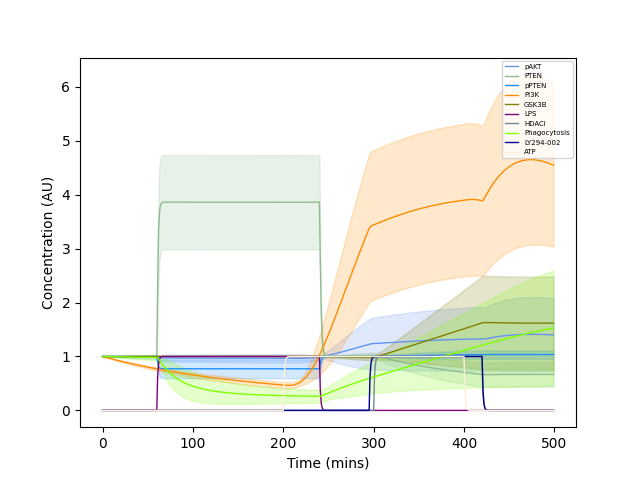
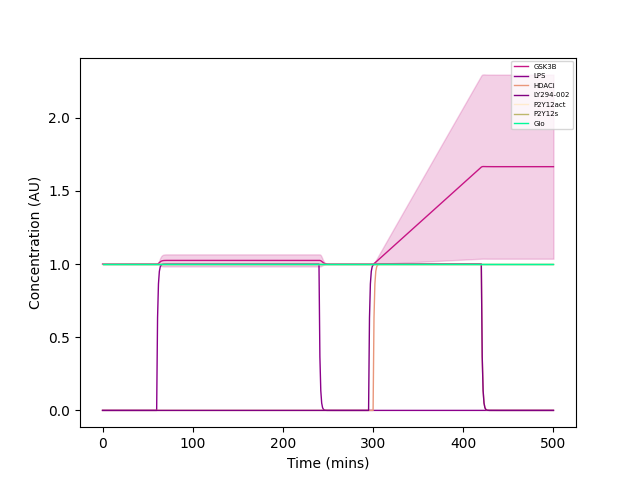
finalized ATP addition

diff --git a/src/network.py b/src/network.py
@@ -17,7 +17,7 @@ class Network:
         self.parsed_interactions = self.parse_interactions()
         self.rates = rates
 
-        np.random.seed(2024)
+        np.random.seed(2824)
         self.colors = list(mcolors.CSS4_COLORS.keys())
         np.random.shuffle(self.colors)
     
@@ -150,12 +150,22 @@ class Network:
                         else:
                             between = False
                             after = False
-                if between:
-                    dydt[substrate_id] = max_val - current_val
-                elif after:
-                    dydt[substrate_id] = -current_val
+                if substrate_of_interest.__getattribute__("r") != None and time_ranges != None:
+                    r = substrate_of_interest.__getattribute__("r").__getattribute__("value")
+                    set_it = [time - tr[0] <= 10 for tr in time_ranges]
+                    if current_val != max_val and True in set_it and between:
+                        dydt[substrate_id] = max_val - current_val
+                    elif after or between:
+                        dydt[substrate_id] = -1*r*current_val
+                    else:
+                        dydt[substrate_id] = 0
                 else:
-                    dydt[substrate_id] = 0
+                    if between:
+                        dydt[substrate_id] = max_val - current_val
+                    elif after:
+                        dydt[substrate_id] = -current_val
+                    else:
+                        dydt[substrate_id] = 0
 
         return list(dydt.values())
 
@@ -212,11 +222,12 @@ class Network:
     
     def graph(self, time, normalize=False, substrates_to_plot=None, path="./figure.png", output_figure=False):
         if normalize:
+            normalize_time = np.linspace(0, 4000, 4001)
             stimuli_ranges = []
             for s in self.substrates.values():
                 stimuli_ranges.append(s.time_ranges)
                 s.__setattr__("time_ranges", None)
-            probe = odeint(self.get_dydt, self.get_initials(), time)[-1]
+            probe = odeint(self.get_dydt, self.get_initials(), normalize_time)[-1]
             for index, s in enumerate(self.substrates.values()):
                 s.__setattr__("time_ranges", stimuli_ranges[index])
 

diff --git a/testing_atp.py b/testing_atp.py
@@ -34,7 +34,7 @@ if __name__ == "__main__":
     network = Network("example", rates, interactions, substrates)
     
     # visualize network ordinary differential equations
-    time = np.array([i for i in range(500)])
+    time = np.linspace(0, 500, num=501)
     derivatives = network.get_representation_dydt()
     for l, t in derivatives.items():
         print(f"{l} = {t}")
@@ -47,5 +47,4 @@ if __name__ == "__main__":
         network.set_parameters(list(parameters.values()), list(parameters.keys()))
 
     # check post-training training error
-    network.substrates["ATP"].time_ranges = [[200, 400]]
-    mean_y, f = network.graph_distributions(time, args.number, substrates_to_plot=["PI3K", "pAKT", "pPTEN", "Phagocytosis", "LPS", "HDACi", "GSK3B", "LY294-002", "ATP", "PTEN"], normalize=True, path=os.path.join(args.output, "figure_atp.png"), output_figure=True)
+    mean_y, f = network.graph_distributions(time, args.number, substrates_to_plot=["PI3K", "pAKT", "pPTEN", "Phagocytosis", "LPS", "HDACi", "GSK3B", "LY294-002"], normalize=True, path=os.path.join(args.output, "figure_atp.png"), output_figure=True)

diff --git a/src/substrate.py b/src/substrate.py
@@ -10,10 +10,8 @@ class Substrate:
         #     self.type = type
         # else:
         #     raise ValueError("Type can only be one of the following: 'stimulus' or 'non-stimulus'")
-        if self.type == "stimulus":
-            self.max_value = mv
+        self.max_value = mv
         self.time_ranges = trs
-        if self.type == "non-stimulus":
-            self.k = k
-            self.r = r
+        self.k = k
+        self.r = r
         self.other = other
